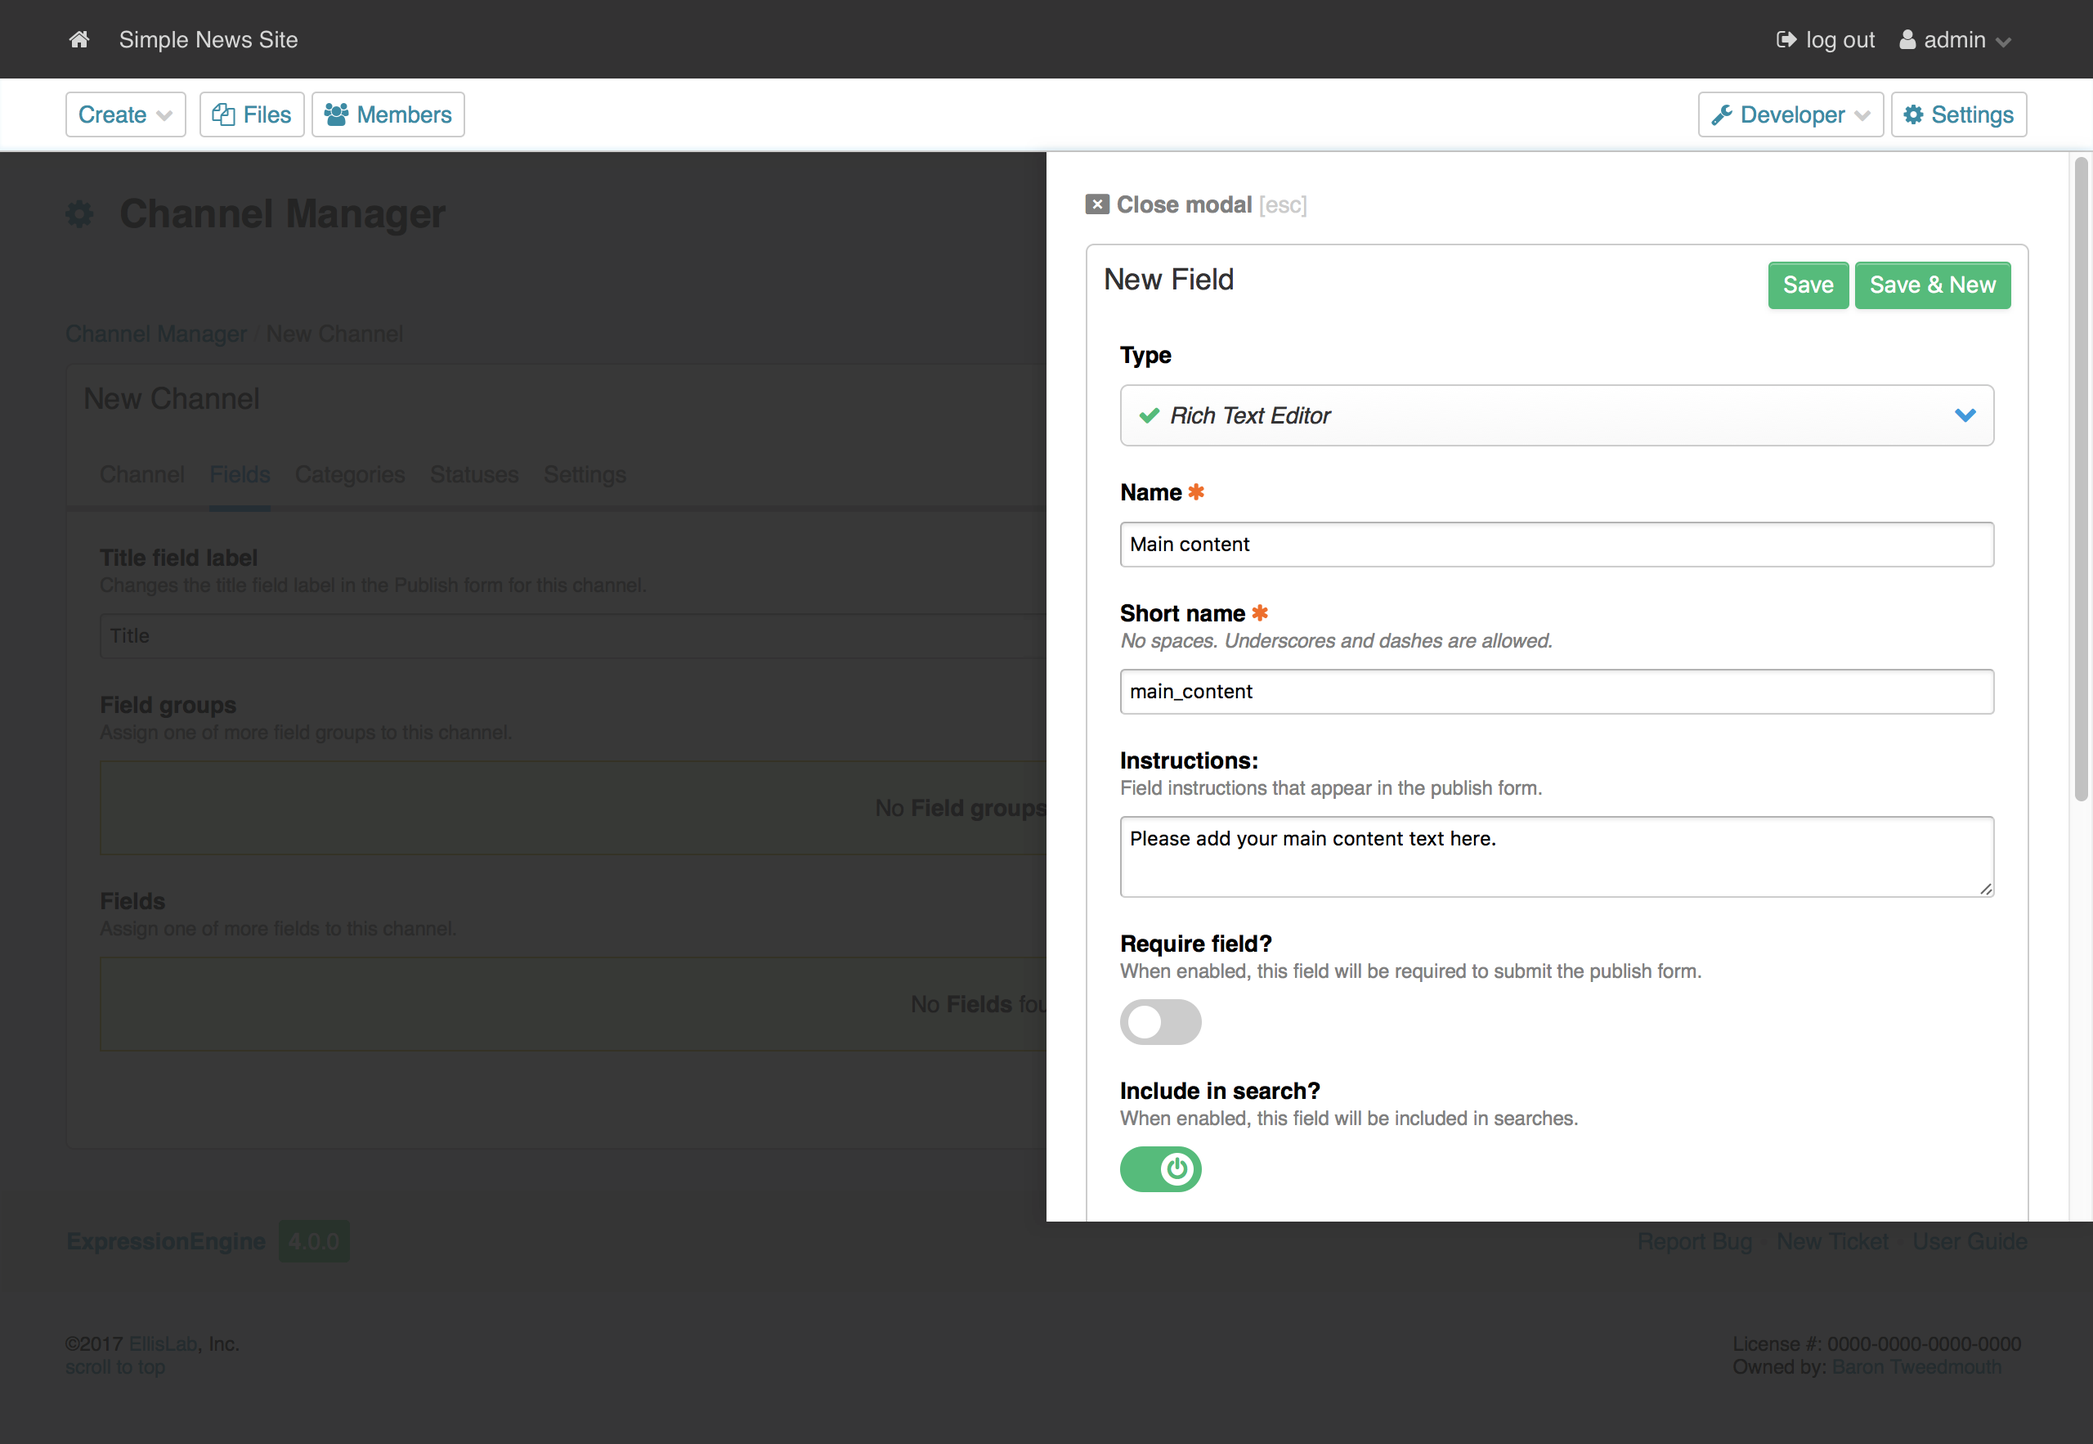
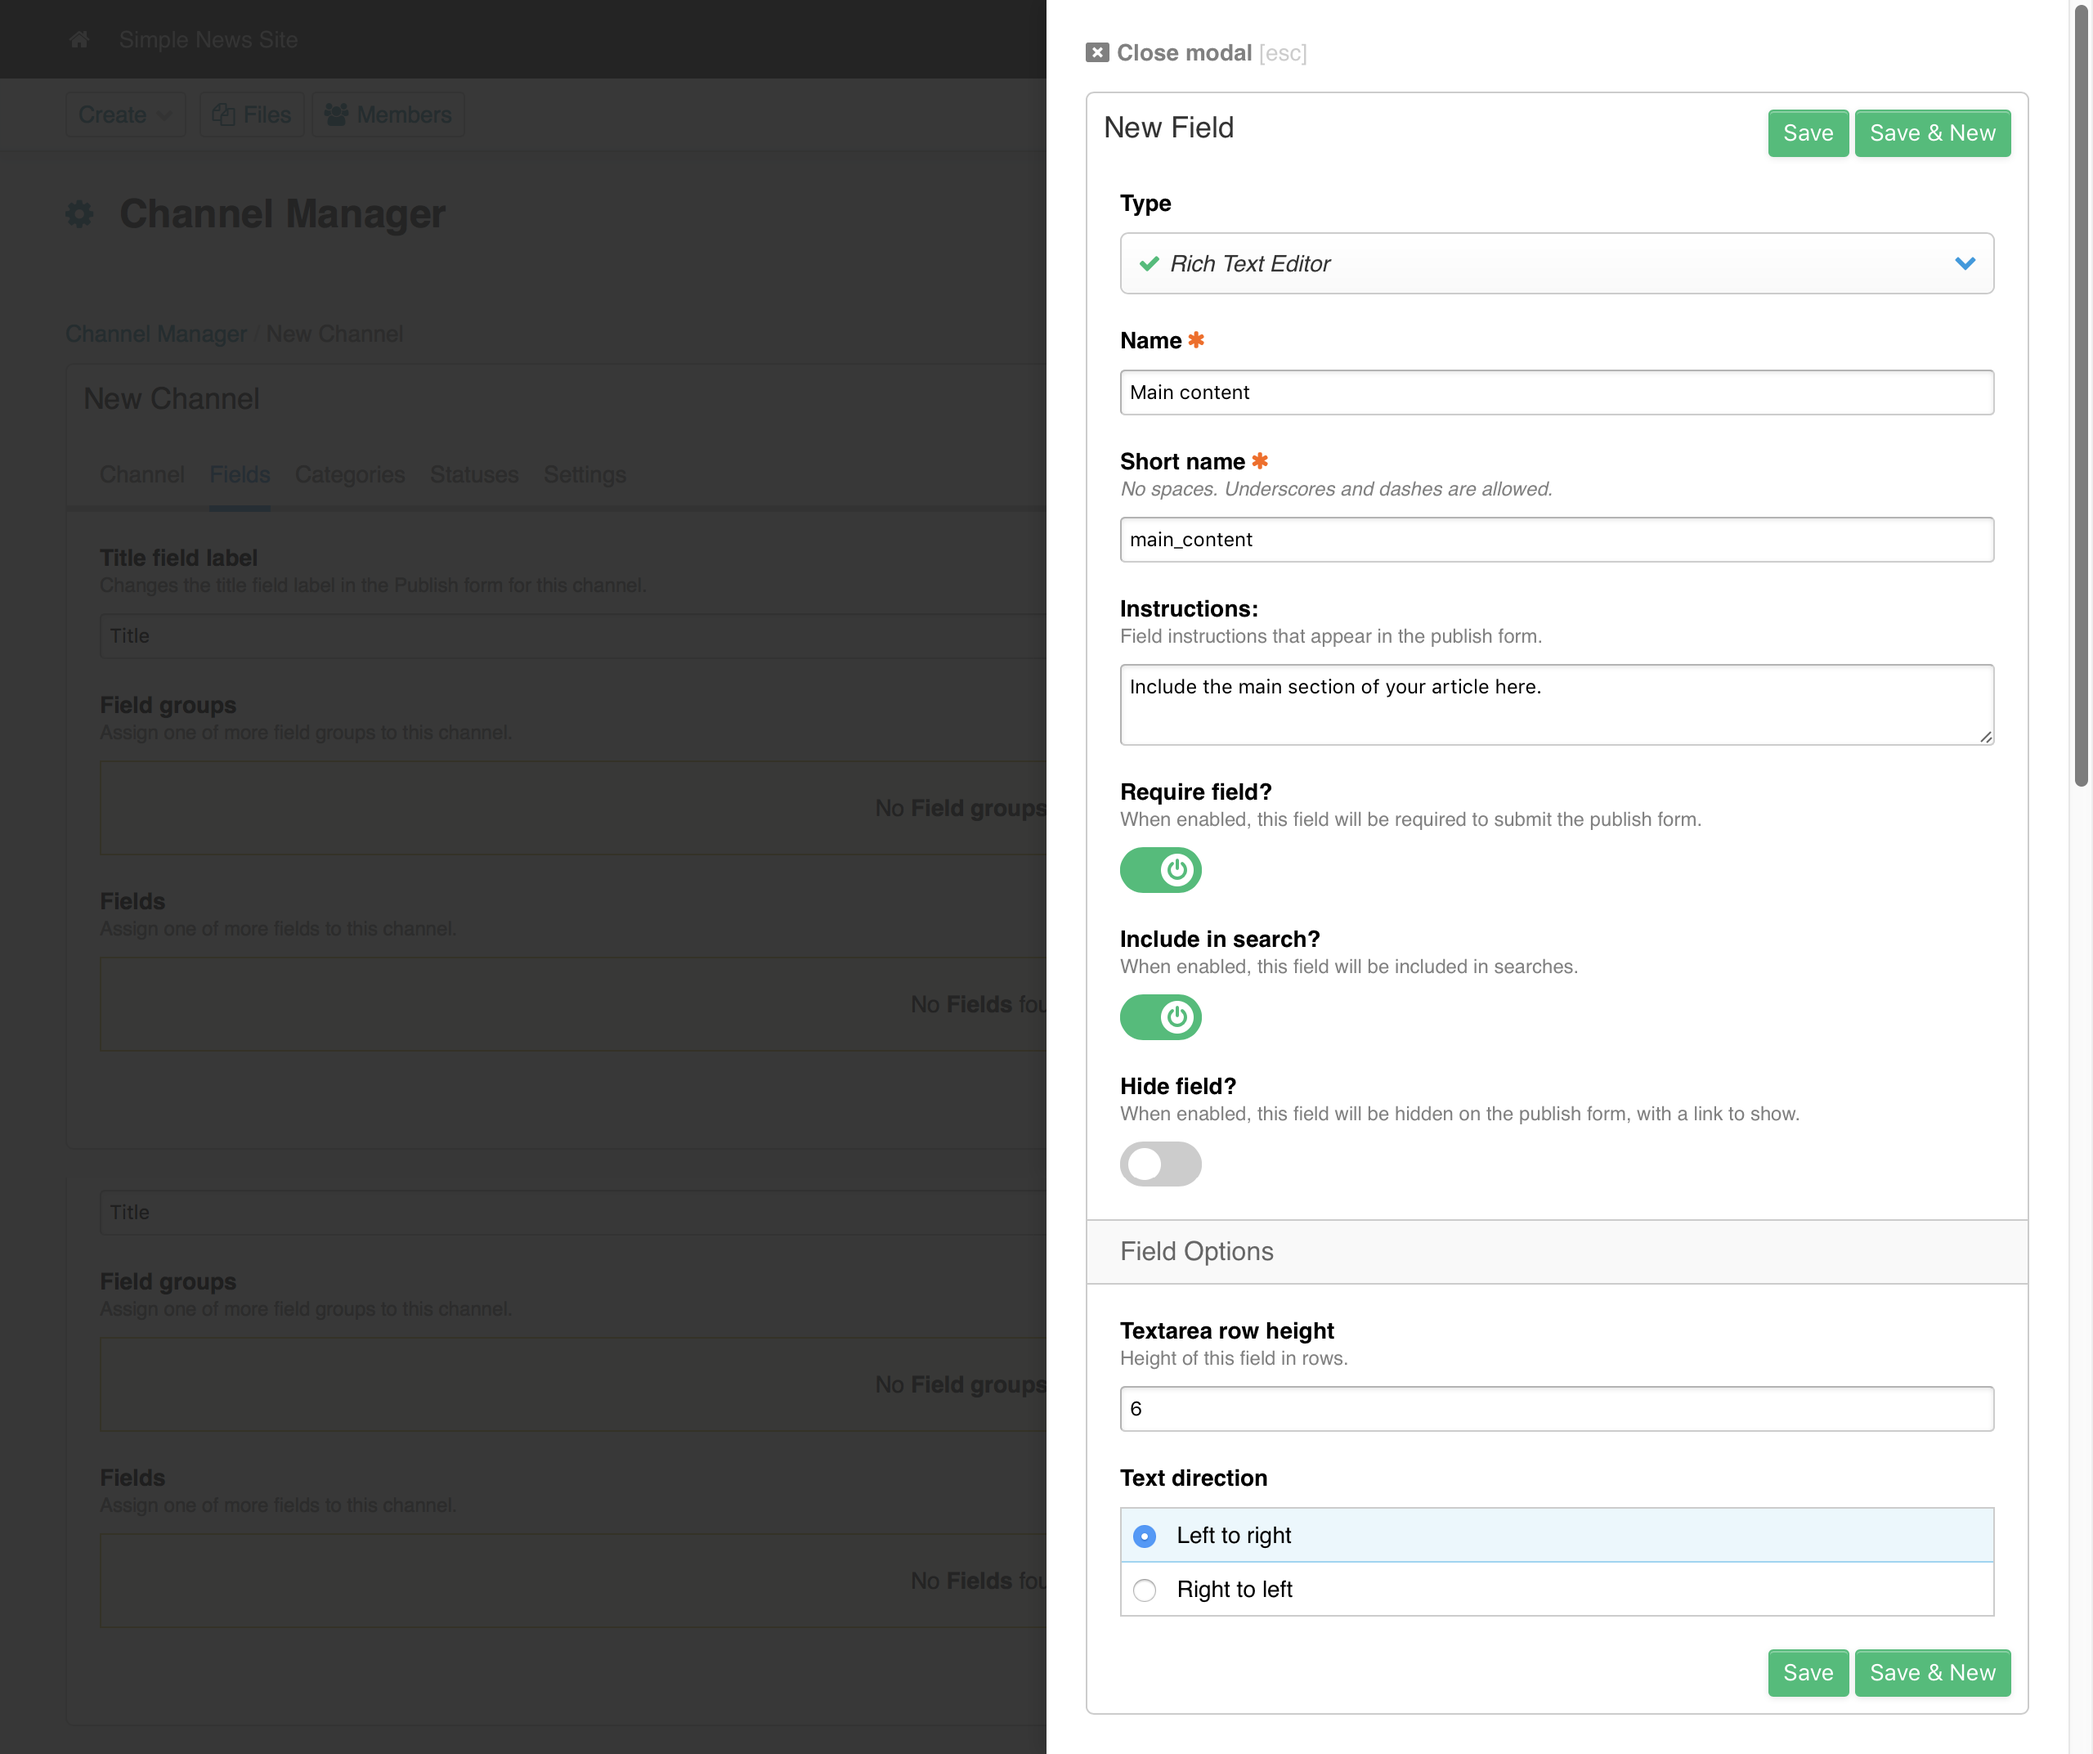
Fixed a bad image and a bad link.

diff --git a/source/how_to/building_a_simple_news_site.rst b/source/how_to/building_a_simple_news_site.rst
@@ -93,7 +93,7 @@ Field Tab
 
 We need to create a structure to hold our news content. The field tab is where you can assign existing fields and/or groups of fields to your channel.  Since we don't have any existing fields, we'll need to create some.
 
-For our simple news section, let's create a Rich Text field to hold the content, or "body", of each news article.
+For our simple news section, let's create a Rich Text field to hold the content of each news article.
 
 Creating a Field
 ================
@@ -102,7 +102,7 @@ Creating a Field
 #. For **Type**, choose Rich Text Editor. (Notice the :doc:`other available types</fieldtypes/index>` - exciting, no? Add-ons can even provide completely new types of fields.)
 #. For **Name**, type "Main content".
 #. ExpressionEngine will automatically provide a sensible **Short Name** for you, in this case, "main_content".
-#. Let's include the field in our searchable fields and leave the rest of the settings at their defaults.
+#. Let's include the field in our searchable fields, set the field as a required field, and leave the rest of the settings at their defaults.
 #. Save your new field. Since we're only adding 1 field, click the **Save** button to create the field and return to the **Field** tab.  If you needed to create multiple new fields, choosing *Save & New** would save the current field and open a new field form.
 
 .. figure:: ../images/getting_started_field_create.png
@@ -299,10 +299,10 @@ Variables
 
 *Variables* are the actual pieces of information that ExpressionEngine retrieves and
 makes available to us. To get some content from an Entry, for example, use the Short Name
-of the Channel Field. Remember the News Body field we created earlier? You can get its contents
+of the Channel Field. Remember the **Main content** field we created earlier? You can get its contents
 like so::
 
-	{news_body}
+	{main_content}
 
 And the Title of the Entry is easily accessed with::
 
@@ -338,7 +338,7 @@ update the Template with the following code::
 			<h2>{title}</h2>
 			<p>By {author}</p>
 
-			{news_body}
+			{main_content}
 		{/exp:channel:entries}
 	</body>
 	</html>

diff --git a/source/about/changelog.rst b/source/about/changelog.rst
@@ -109,7 +109,7 @@ Release Date: December 5, 2017
 
   - Added the ability to set the image quality when specifying a resize or crop on your upload destinations.
   - User-level errors on the front end are now sent with 403 status codes.
-  - Email module :doc:`Contact Form </add-ons/email/contact_form>`` now has the ability to include a file attachment.
+  - Email module :doc:`Contact Form </add-ons/email/contact_form>` now has the ability to include a file attachment.
   - Eliminated some redundant queries when Channel Entries are saved.
   - Debugging errors no longer require an extra click to display the stack trace.
   - Error reporting can now be enabled for *all* site visitors from the control panel.
